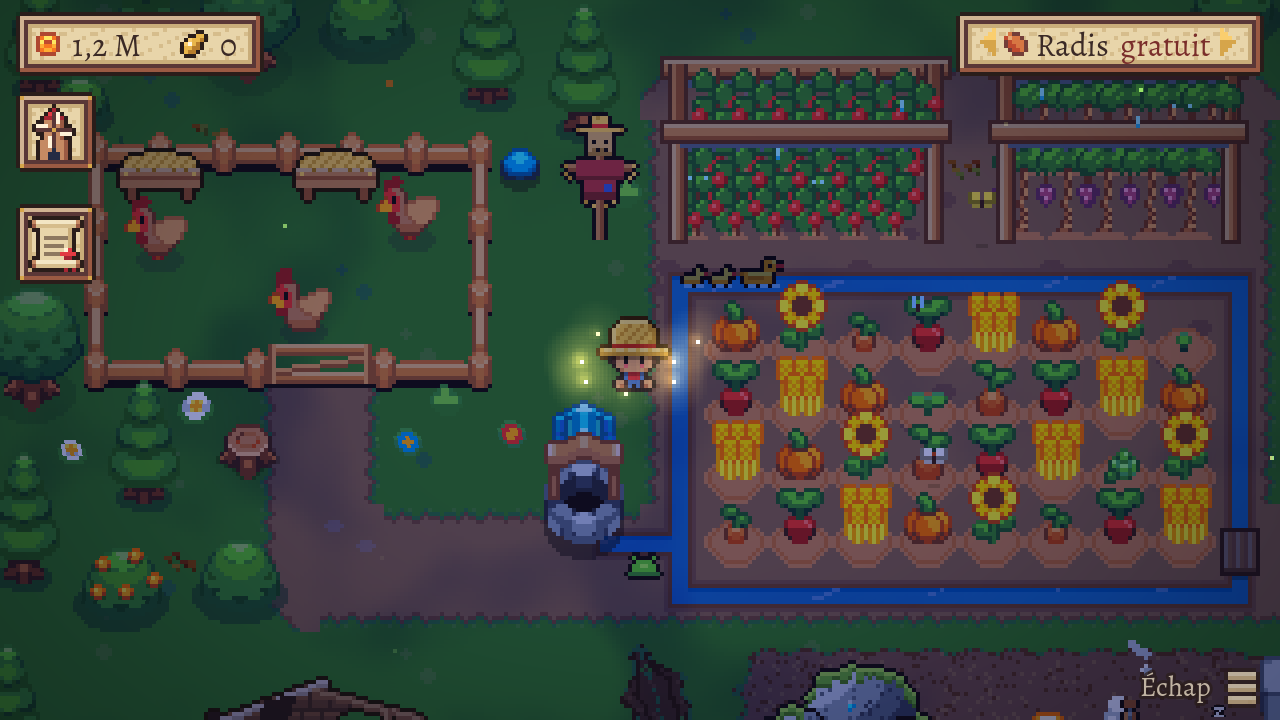
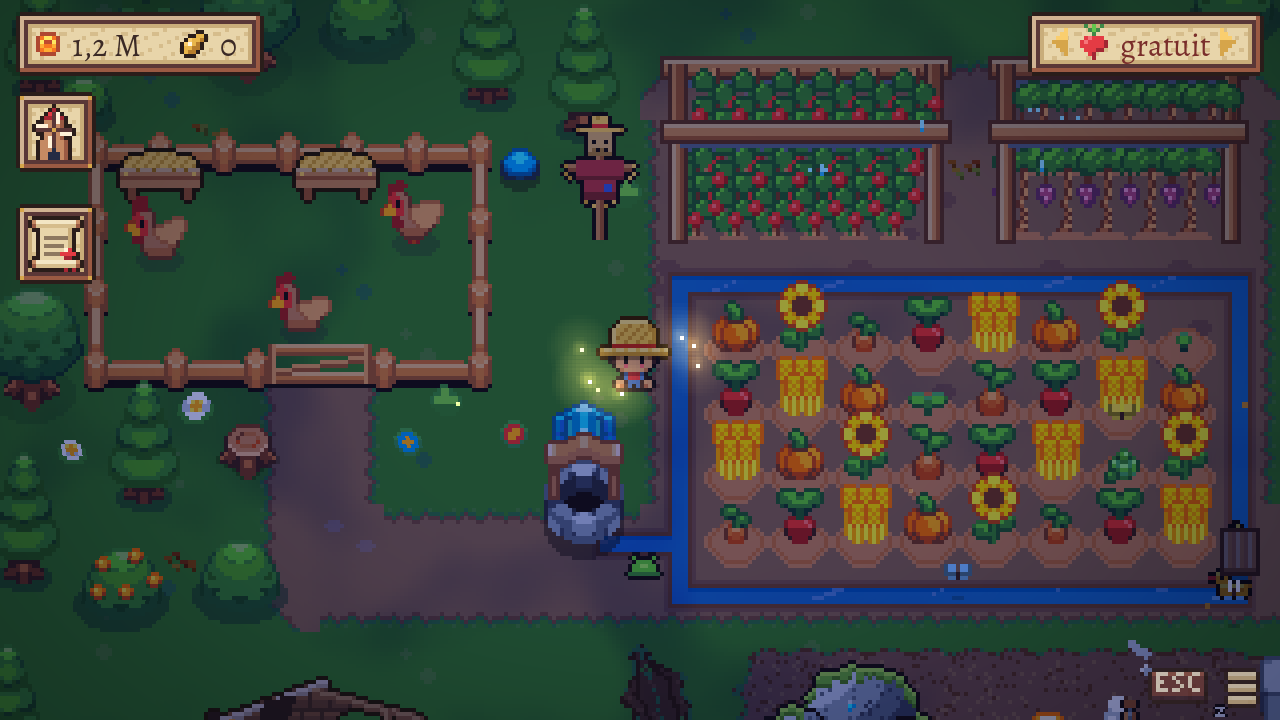
Captures refaites : touches dessinées et icônes des cultures, en anglais et en français

diff --git a/index.html b/index.html
@@ -139,7 +139,7 @@
       <div class="wrap features">
         <article class="feature">
           <figure class="frame">
-            <img src="assets/shots/en/village_day.png?v=3" data-shot="village_day" width="1280" height="720" loading="lazy"
+            <img src="assets/shots/en/village_day.png?v=4" data-shot="village_day" width="1280" height="720" loading="lazy"
                  alt="The village of Blémont: fountain, shops, grandma dozing on her bench, Barnabé's pen.">
           </figure>
           <div class="feature__text">
@@ -150,7 +150,7 @@
         </article>
         <article class="feature feature--flip">
           <figure class="frame">
-            <img src="assets/shots/en/pen.png?v=3" data-shot="pen" width="1280" height="720" loading="lazy"
+            <img src="assets/shots/en/pen.png?v=4" data-shot="pen" width="1280" height="720" loading="lazy"
                  alt="The farm's repaired pen, with three hens that just laid eggs.">
           </figure>
           <div class="feature__text">
@@ -161,7 +161,7 @@
         </article>
         <article class="feature">
           <figure class="frame">
-            <img src="assets/shots/en/farm_day.png?v=3" data-shot="farm_day" width="1280" height="720" loading="lazy"
+            <img src="assets/shots/en/farm_day.png?v=4" data-shot="farm_day" width="1280" height="720" loading="lazy"
                  alt="The farm in full swing: irrigated field, goblins harvesting, mine camp and windmill.">
           </figure>
           <div class="feature__text">
@@ -180,32 +180,32 @@
         <h2 class="center" data-i18n="gallery_title">A hand-crafted pixel art world</h2>
         <p class="center gallery__lead" data-i18n="gallery_text">From sunrise to nights lit by fireflies, the valley lives at its own pace.</p>
         <div class="gallery">
-          <button class="gallery__item gallery__item--wide" type="button" data-full="assets/shots/en/farm_day.png?v=3">
-            <img src="assets/shots/en/farm_day.png?v=3" data-shot="farm_day" width="1280" height="720" loading="lazy" alt="The big farm in full daylight: 32 plots, the pergola of tomatoes and grapes, the hen pen.">
+          <button class="gallery__item gallery__item--wide" type="button" data-full="assets/shots/en/farm_day.png?v=4">
+            <img src="assets/shots/en/farm_day.png?v=4" data-shot="farm_day" width="1280" height="720" loading="lazy" alt="The big farm in full daylight: 32 plots, the pergola of tomatoes and grapes, the hen pen.">
           </button>
-          <button class="gallery__item" type="button" data-full="assets/shots/en/farm_evening.png?v=3">
-            <img src="assets/shots/en/farm_evening.png?v=3" data-shot="farm_evening" width="1280" height="720" loading="lazy" alt="Evening falls on the farm: golden light over the field.">
+          <button class="gallery__item" type="button" data-full="assets/shots/en/farm_evening.png?v=4">
+            <img src="assets/shots/en/farm_evening.png?v=4" data-shot="farm_evening" width="1280" height="720" loading="lazy" alt="Evening falls on the farm: golden light over the field.">
           </button>
-          <button class="gallery__item" type="button" data-full="assets/shots/en/farm_night.png?v=3">
-            <img src="assets/shots/en/farm_night.png?v=3" data-shot="farm_night" width="1280" height="720" loading="lazy" alt="Night at the farm: golden fireflies follow John.">
+          <button class="gallery__item" type="button" data-full="assets/shots/en/farm_night.png?v=4">
+            <img src="assets/shots/en/farm_night.png?v=4" data-shot="farm_night" width="1280" height="720" loading="lazy" alt="Night at the farm: golden fireflies follow John.">
           </button>
-          <button class="gallery__item" type="button" data-full="assets/shots/en/village_night.png?v=3">
-            <img src="assets/shots/en/village_night.png?v=3" data-shot="village_night" width="1280" height="720" loading="lazy" alt="The village at night, lit by John's fireflies.">
+          <button class="gallery__item" type="button" data-full="assets/shots/en/village_night.png?v=4">
+            <img src="assets/shots/en/village_night.png?v=4" data-shot="village_night" width="1280" height="720" loading="lazy" alt="The village at night, lit by John's fireflies.">
           </button>
-          <button class="gallery__item" type="button" data-full="assets/shots/en/village_day.png?v=3">
-            <img src="assets/shots/en/village_day.png?v=3" data-shot="village_day" width="1280" height="720" loading="lazy" alt="Villagers chatting by the fountain, one says hi to John.">
+          <button class="gallery__item" type="button" data-full="assets/shots/en/village_day.png?v=4">
+            <img src="assets/shots/en/village_day.png?v=4" data-shot="village_day" width="1280" height="720" loading="lazy" alt="Villagers chatting by the fountain, one says hi to John.">
           </button>
-          <button class="gallery__item" type="button" data-full="assets/shots/en/pen.png?v=3">
-            <img src="assets/shots/en/pen.png?v=3" data-shot="pen" width="1280" height="720" loading="lazy" alt="Hens in the repaired pen.">
+          <button class="gallery__item" type="button" data-full="assets/shots/en/pen.png?v=4">
+            <img src="assets/shots/en/pen.png?v=4" data-shot="pen" width="1280" height="720" loading="lazy" alt="Hens in the repaired pen.">
           </button>
-          <button class="gallery__item" type="button" data-full="assets/shots/en/coin_flip.png?v=3">
-            <img src="assets/shots/en/coin_flip.png?v=3" data-shot="coin_flip" width="1280" height="720" loading="lazy" alt="The prankster goblin's heads or tails: the coin spins in the air.">
+          <button class="gallery__item" type="button" data-full="assets/shots/en/coin_flip.png?v=4">
+            <img src="assets/shots/en/coin_flip.png?v=4" data-shot="coin_flip" width="1280" height="720" loading="lazy" alt="The prankster goblin's heads or tails: the coin spins in the air.">
           </button>
-          <button class="gallery__item" type="button" data-full="assets/shots/en/sage.png?v=3">
-            <img src="assets/shots/en/sage.png?v=3" data-shot="sage" width="1280" height="720" loading="lazy" alt="The old sage: rebirth and permanent bonuses for golden seeds.">
+          <button class="gallery__item" type="button" data-full="assets/shots/en/sage.png?v=4">
+            <img src="assets/shots/en/sage.png?v=4" data-shot="sage" width="1280" height="720" loading="lazy" alt="The old sage: rebirth and permanent bonuses for golden seeds.">
           </button>
-          <button class="gallery__item" type="button" data-full="assets/shots/en/tutorial.png?v=3">
-            <img src="assets/shots/en/tutorial.png?v=3" data-shot="tutorial" width="1280" height="720" loading="lazy" alt="First steps: John gives his tips.">
+          <button class="gallery__item" type="button" data-full="assets/shots/en/tutorial.png?v=4">
+            <img src="assets/shots/en/tutorial.png?v=4" data-shot="tutorial" width="1280" height="720" loading="lazy" alt="First steps: John gives his tips.">
           </button>
           <button class="gallery__item" type="button" data-full="assets/shots/dream.png">
             <img src="assets/shots/dream.png" width="1280" height="640" loading="lazy" alt="The intro dream: the farm of old.">
@@ -233,7 +233,7 @@
           </a>
         </div>
         <figure class="frame frame--tilt-right">
-          <img src="assets/shots/en/tutorial.png?v=3" data-shot="tutorial" width="1280" height="720" loading="lazy" alt="The game interface: John gives a tip as the first radish sprouts.">
+          <img src="assets/shots/en/tutorial.png?v=4" data-shot="tutorial" width="1280" height="720" loading="lazy" alt="The game interface: John gives a tip as the first radish sprouts.">
         </figure>
       </div>
     </section>
@@ -308,6 +308,6 @@
     <button class="lightbox__close" type="button" id="lightbox-close" aria-label="Close">✕</button>
   </dialog>
 
-  <script src="main.js?v=4"></script>
+  <script src="main.js?v=5"></script>
 </body>
 </html>

diff --git a/main.js b/main.js
@@ -178,7 +178,7 @@ function applyLang() {
 
 // Les captures du jeu existent en anglais et en français (assets/shots/en|fr) : on montre
 // celles de la langue choisie, dans la page comme dans la visionneuse.
-const SHOTS_VERSION = 3;
+const SHOTS_VERSION = 4;
 function applyShots() {
   document.querySelectorAll("img[data-shot]").forEach((img) => {
     const src = `assets/shots/${lang}/${img.dataset.shot}.png?v=${SHOTS_VERSION}`;
